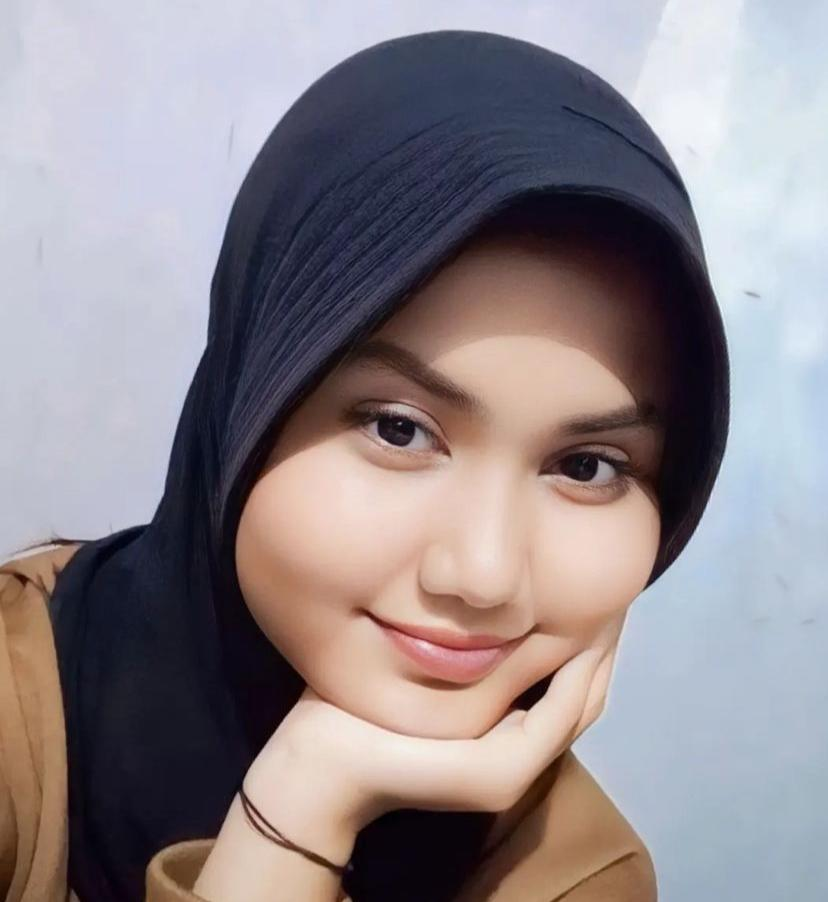
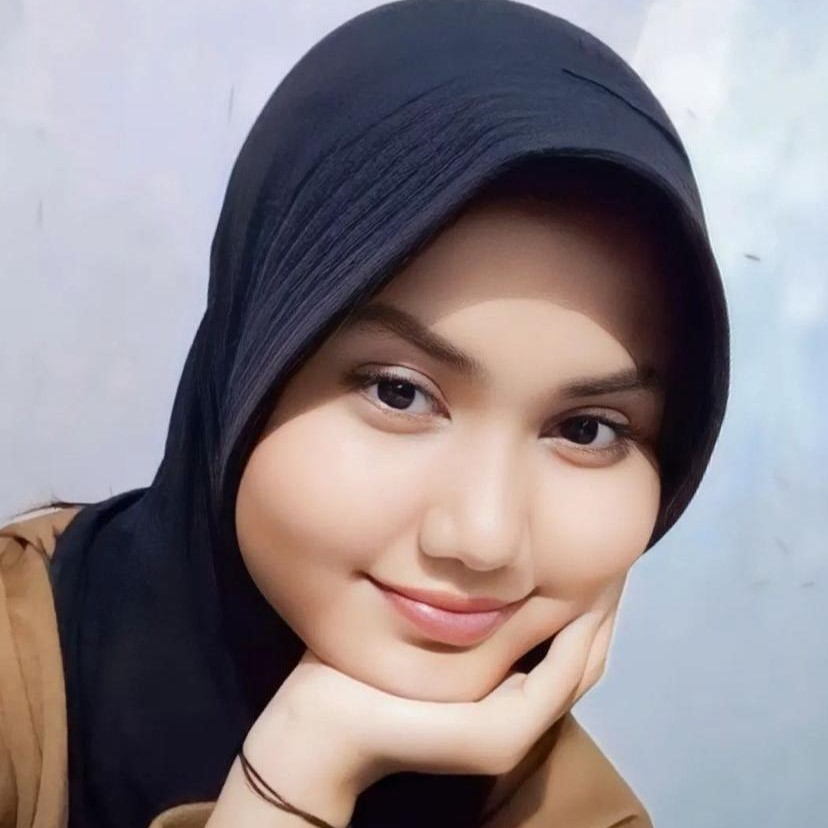
commit

diff --git a/src/views/AboutView.vue b/src/views/AboutView.vue
@@ -114,58 +114,58 @@
           <div class="w-full sm:w-10 md:w-32 lg:w-40 xl:w-72 p-4 duration-100">
             <img class="rounded-full asset_profile" src="../assets/img/assetpeople/dzaky.jpg" alt="" />
             <div class="text-center mt-5">
-              <h3 class="text-2xl font-medium">Im Zet</h3>
+              <h3 class="text-2xl font-medium">Dzaky Abdurrahman</h3>
+              <p class="mt-3 text-sm dark:text-gray-400">Backend Developer</p>
+            </div>
+          </div>
+          <div class="w-full sm:w-10 md:w-32 lg:w-40 xl:w-72 p-4 duration-100">
+            <img class="rounded-full asset_profile" src="../assets/img/assetpeople/zet.jpg" alt="" />
+            <div class="text-center mt-5">
+              <h3 class="text-2xl font-medium">Zeeta</h3>
               <p class="mt-3 text-sm dark:text-gray-400">Frontend Developer</p>
             </div>
           </div>
           <div class="w-full sm:w-10 md:w-32 lg:w-40 xl:w-72 p-4 duration-100">
-            <img class="rounded-full asset_profile" src="../assets/img/1000064246_polarr.jpg" alt="" />
+            <img class="rounded-full asset_profile" src="../assets/img/assetpeople/Keyza.jpg" alt="" />
             <div class="text-center mt-5">
-              <h3 class="text-2xl font-medium">Im Zet</h3>
+              <h3 class="text-2xl font-medium">Keyza Dinaro</h3>
               <p class="mt-3 text-sm dark:text-gray-400">Frontend Developer</p>
             </div>
           </div>
           <div class="w-full sm:w-10 md:w-32 lg:w-40 xl:w-72 p-4 duration-100">
-            <img class="rounded-full asset_profile" src="../assets/img/relpicture.jpg" alt="" />
+            <img class="rounded-full asset_profile" src="../assets/img/assetpeople/vito.jpg" alt="" />
             <div class="text-center mt-5">
-              <h3 class="text-2xl font-medium">Im Zet</h3>
-              <p class="mt-3 text-sm dark:text-gray-400">Frontend Developer</p>
-            </div>
-          </div>
-          <div class="w-full sm:w-10 md:w-32 lg:w-40 xl:w-72 p-4 duration-100">
-            <img class="rounded-full asset_profile" src="../assets/img/akaksayangg.png" alt="" />
-            <div class="text-center mt-5">
-              <h3 class="text-2xl font-medium">Im Zet</h3>
+              <h3 class="text-2xl font-medium">Vito Elkayis</h3>
               <p class="mt-3 text-sm dark:text-gray-400">Frontend Developer</p>
             </div>
           </div>
         </div>
         <div class="flex flex-wrap mx-auto gap-10 justify-center mt-20 rounded-3xl">
           <div class="w-full sm:w-10 md:w-32 lg:w-40 xl:w-72 p-4 duration-100">
-            <img class="rounded-full asset_profile" src="../assets/img/zet.jpg" alt="" />
+            <img class="rounded-full asset_profile" src="../assets/img/assetpeople/celis.jpg" alt="" />
             <div class="text-center mt-5">
-              <h3 class="text-2xl font-medium">Im Zet</h3>
+              <h3 class="text-2xl font-medium">Celis Hasanuddin</h3>
               <p class="mt-3 text-sm dark:text-gray-400">Frontend Developer</p>
             </div>
           </div>
           <div class="w-full sm:w-10 md:w-32 lg:w-40 xl:w-72 p-4 duration-100">
-            <img class="rounded-full asset_profile" src="../assets/img/akaksayangg.png" alt="" />
+            <img class="rounded-full asset_profile" src="../assets/img/assetpeople/josha.jpg" alt="" />
             <div class="text-center mt-5">
-              <h3 class="text-2xl font-medium">Im Zet</h3>  
+              <h3 class="text-2xl font-medium">Jauza Saktiawan</h3>  
               <p class="mt-3 text-sm dark:text-gray-400">Frontend Developer</p>
             </div>
           </div>
           <div class="w-full sm:w-10 md:w-32 lg:w-40 xl:w-72 p-4 duration-100">
-            <img class="rounded-full asset_profile" src="../assets/img/zet.jpg" alt="" />
+            <img class="rounded-full asset_profile" src="../assets/img/assetpeople/zua.jpg" alt="" />
             <div class="text-center mt-5">
-              <h3 class="text-2xl font-medium">Im Zet</h3>
+              <h3 class="text-2xl font-medium">Lazuardi Diendi</h3>
               <p class="mt-3 text-sm dark:text-gray-400">Frontend Developer</p>
             </div>
           </div>
           <div class="w-full sm:w-10 md:w-32 lg:w-40 xl:w-72 p-4 duration-100">
-            <img class="rounded-full asset_profile" src="../assets/img/akaksayangg.png" alt="" />
+            <img class="rounded-full asset_profile" src="../assets/img/assetpeople/syafiq.jpg" alt="" />
             <div class="text-center mt-5">
-              <h3 class="text-2xl font-medium">Im Zet</h3>
+              <h3 class="text-2xl font-medium">Syafiq Alfarensqi</h3>
               <p class="mt-3 text-sm dark:text-gray-400">Frontend Developer</p>
             </div>
           </div>
@@ -232,7 +232,7 @@
           </div>
           <div class="p-2 lg:w-1/3 md:w-1/2 w-full">
             <div class="h-full flex items-center dark:border-gray-800 hover:bparent border p-4 rounded-2xl hover:scale-105 duration-100 bg-[#1c1c2e]">
-              <img alt="team" class="w-16 h-16 bg-gray-100 object-cover object-center flex-shrink-0 rounded-full mr-4" src="../assets/img/assetpeople/celis.jpg" />
+              <img alt="team" class="w-16 h-16 bg-gray-100 object-cover object-center flex-shrink-0 rounded-full mr-4" src="../assets/img/assetpeople/ronald.jpg" />
               <div class="flex-grow">
                 <h2 class="dark:text-gray-200 title-font font-medium">Henry Letham</h2>
                 <p class="text-gray-400">CTO</p>
@@ -295,7 +295,7 @@
           </div>
           <div class="p-2 lg:w-1/3 md:w-1/2 w-full">
             <div class="h-full flex items-center dark:border-gray-800 hover:bparent border p-4 rounded-2xl hover:scale-105 duration-100 bg-[#1c1c2e]">
-              <img alt="team" class="w-16 h-16 bg-gray-100 object-cover object-center flex-shrink-0 rounded-full mr-4" src="../assets/img/assetpeople/ian.jpgq" />
+              <img alt="team" class="w-16 h-16 bg-gray-100 object-cover object-center flex-shrink-0 rounded-full mr-4" src="../assets/img/assetpeople/ian.jpg" />
               <div class="flex-grow">
                 <h2 class="dark:text-gray-200 title-font font-medium">Rodrigo Monchi</h2>
                 <p class="text-gray-500">Product Manager</p>
